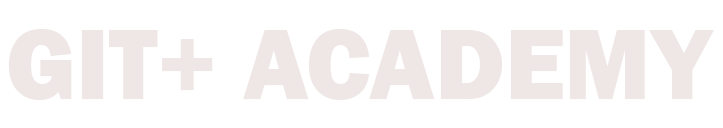
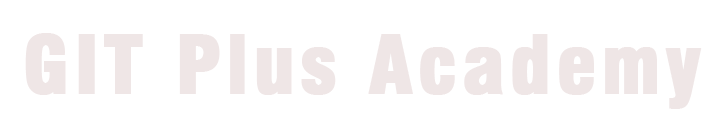
edit git plus image

diff --git a/src/scenes/benefits/index.tsx b/src/scenes/benefits/index.tsx
@@ -15,7 +15,7 @@ const benefits: Array<BenefitType> = [
     icon: <HomeModernIcon className="h-6 w-6" />,
     title: "Hands-On Learning",
     description:
-      "Unlike traditional lessons, GitPlus Academy immerses you in hands-on experiences. Dive into practical coding exercises that solidify your understanding of tech concepts and equip you with the skills to tackle real-world challenges.",
+      "Unlike traditional lessons, GIT Plus Academy immerses you in hands-on experiences. Dive into practical coding exercises that solidify your understanding of tech concepts and equip you with the skills to tackle real-world challenges.",
   },
   {
     icon: <UserGroupIcon className="h-6 w-6" />,
@@ -62,8 +62,8 @@ const Benefits = ({ setSelectedPage }: Props) => {
         >
           <HText>EXPERIENCE THE DIFFERENCE: NOT JUST ANOTHER LESSON</HText>
           <p className="my-5 text-sm">
-            Discover a transformative learning journey at GitPlus Academy. We go
-            beyond traditional lessons, offering hands-on experiences that
+            Discover a transformative learning journey at GIT Plus Academy. We
+            go beyond traditional lessons, offering hands-on experiences that
             empower you with practical tech skills. Elevate your expertise
             through immersive coding exercises and real-world projects, setting
             you apart in a competitive tech landscape
@@ -131,9 +131,9 @@ const Benefits = ({ setSelectedPage }: Props) => {
             >
               <p className="my-5">
                 Join our ever-growing family of over a million satisfied
-                students who have embarked on their learning journey with
-                GitPlus Academy. We're dedicated to transforming aspirations
-                into accomplishments, as evidenced by the multitude of success
+                students who have embarked on their learning journey with GIT
+                Plus Academy. We're dedicated to transforming aspirations into
+                accomplishments, as evidenced by the multitude of success
                 stories within our community. Our practical teaching
                 methodology, backed by expert guidance, has empowered countless
                 individuals to not only grasp complex tech subjects but also
@@ -146,7 +146,7 @@ const Benefits = ({ setSelectedPage }: Props) => {
                 supportive and collaborative environment that fosters growth.
                 Our alumni, now integral parts of various industries,
                 consistently emphasize the real-world applicability of the
-                skills they've honed here. By choosing GitPlus Academy, you're
+                skills they've honed here. By choosing GIT Plus Academy, you're
                 not just enrolling in a program; you're becoming a valued member
                 of a community that celebrates achievements, encourages
                 innovation, and continues to evolve alongside the ever-changing

diff --git a/src/scenes/ourClasses/index.tsx b/src/scenes/ourClasses/index.tsx
@@ -61,7 +61,7 @@ const OurClasses = ({ setSelectedPage }: Props) => {
           <div className="md:w-3/5">
             <HText>Explore Our Classes</HText>
             <p className="py-5">
-              Discover a world of learning with GitPlus Academy's thoughtfully
+              Discover a world of learning with GIT Plus Academy's thoughtfully
               curated classes. Through immersive hands-on experiences, our
               courses empower you with practical skills across various tech
               domains. Whether you're a beginner or looking to advance, our

diff --git a/src/scenes/contactUs/index.tsx b/src/scenes/contactUs/index.tsx
@@ -45,8 +45,8 @@ const ContactUs = ({ setSelectedPage }: Props) => {
           <HText>Get in Touch</HText>
           <p className="my-5">
             Connect with us through our contact channels for inquiries,
-            assistance, and collaboration opportunities. Your journey with
-            GitPlus Academy starts with a simple conversation{" "}
+            assistance, and collaboration opportunities. Your journey with Git
+            Plus Academy starts with a simple conversation{" "}
           </p>
         </motion.div>
 
